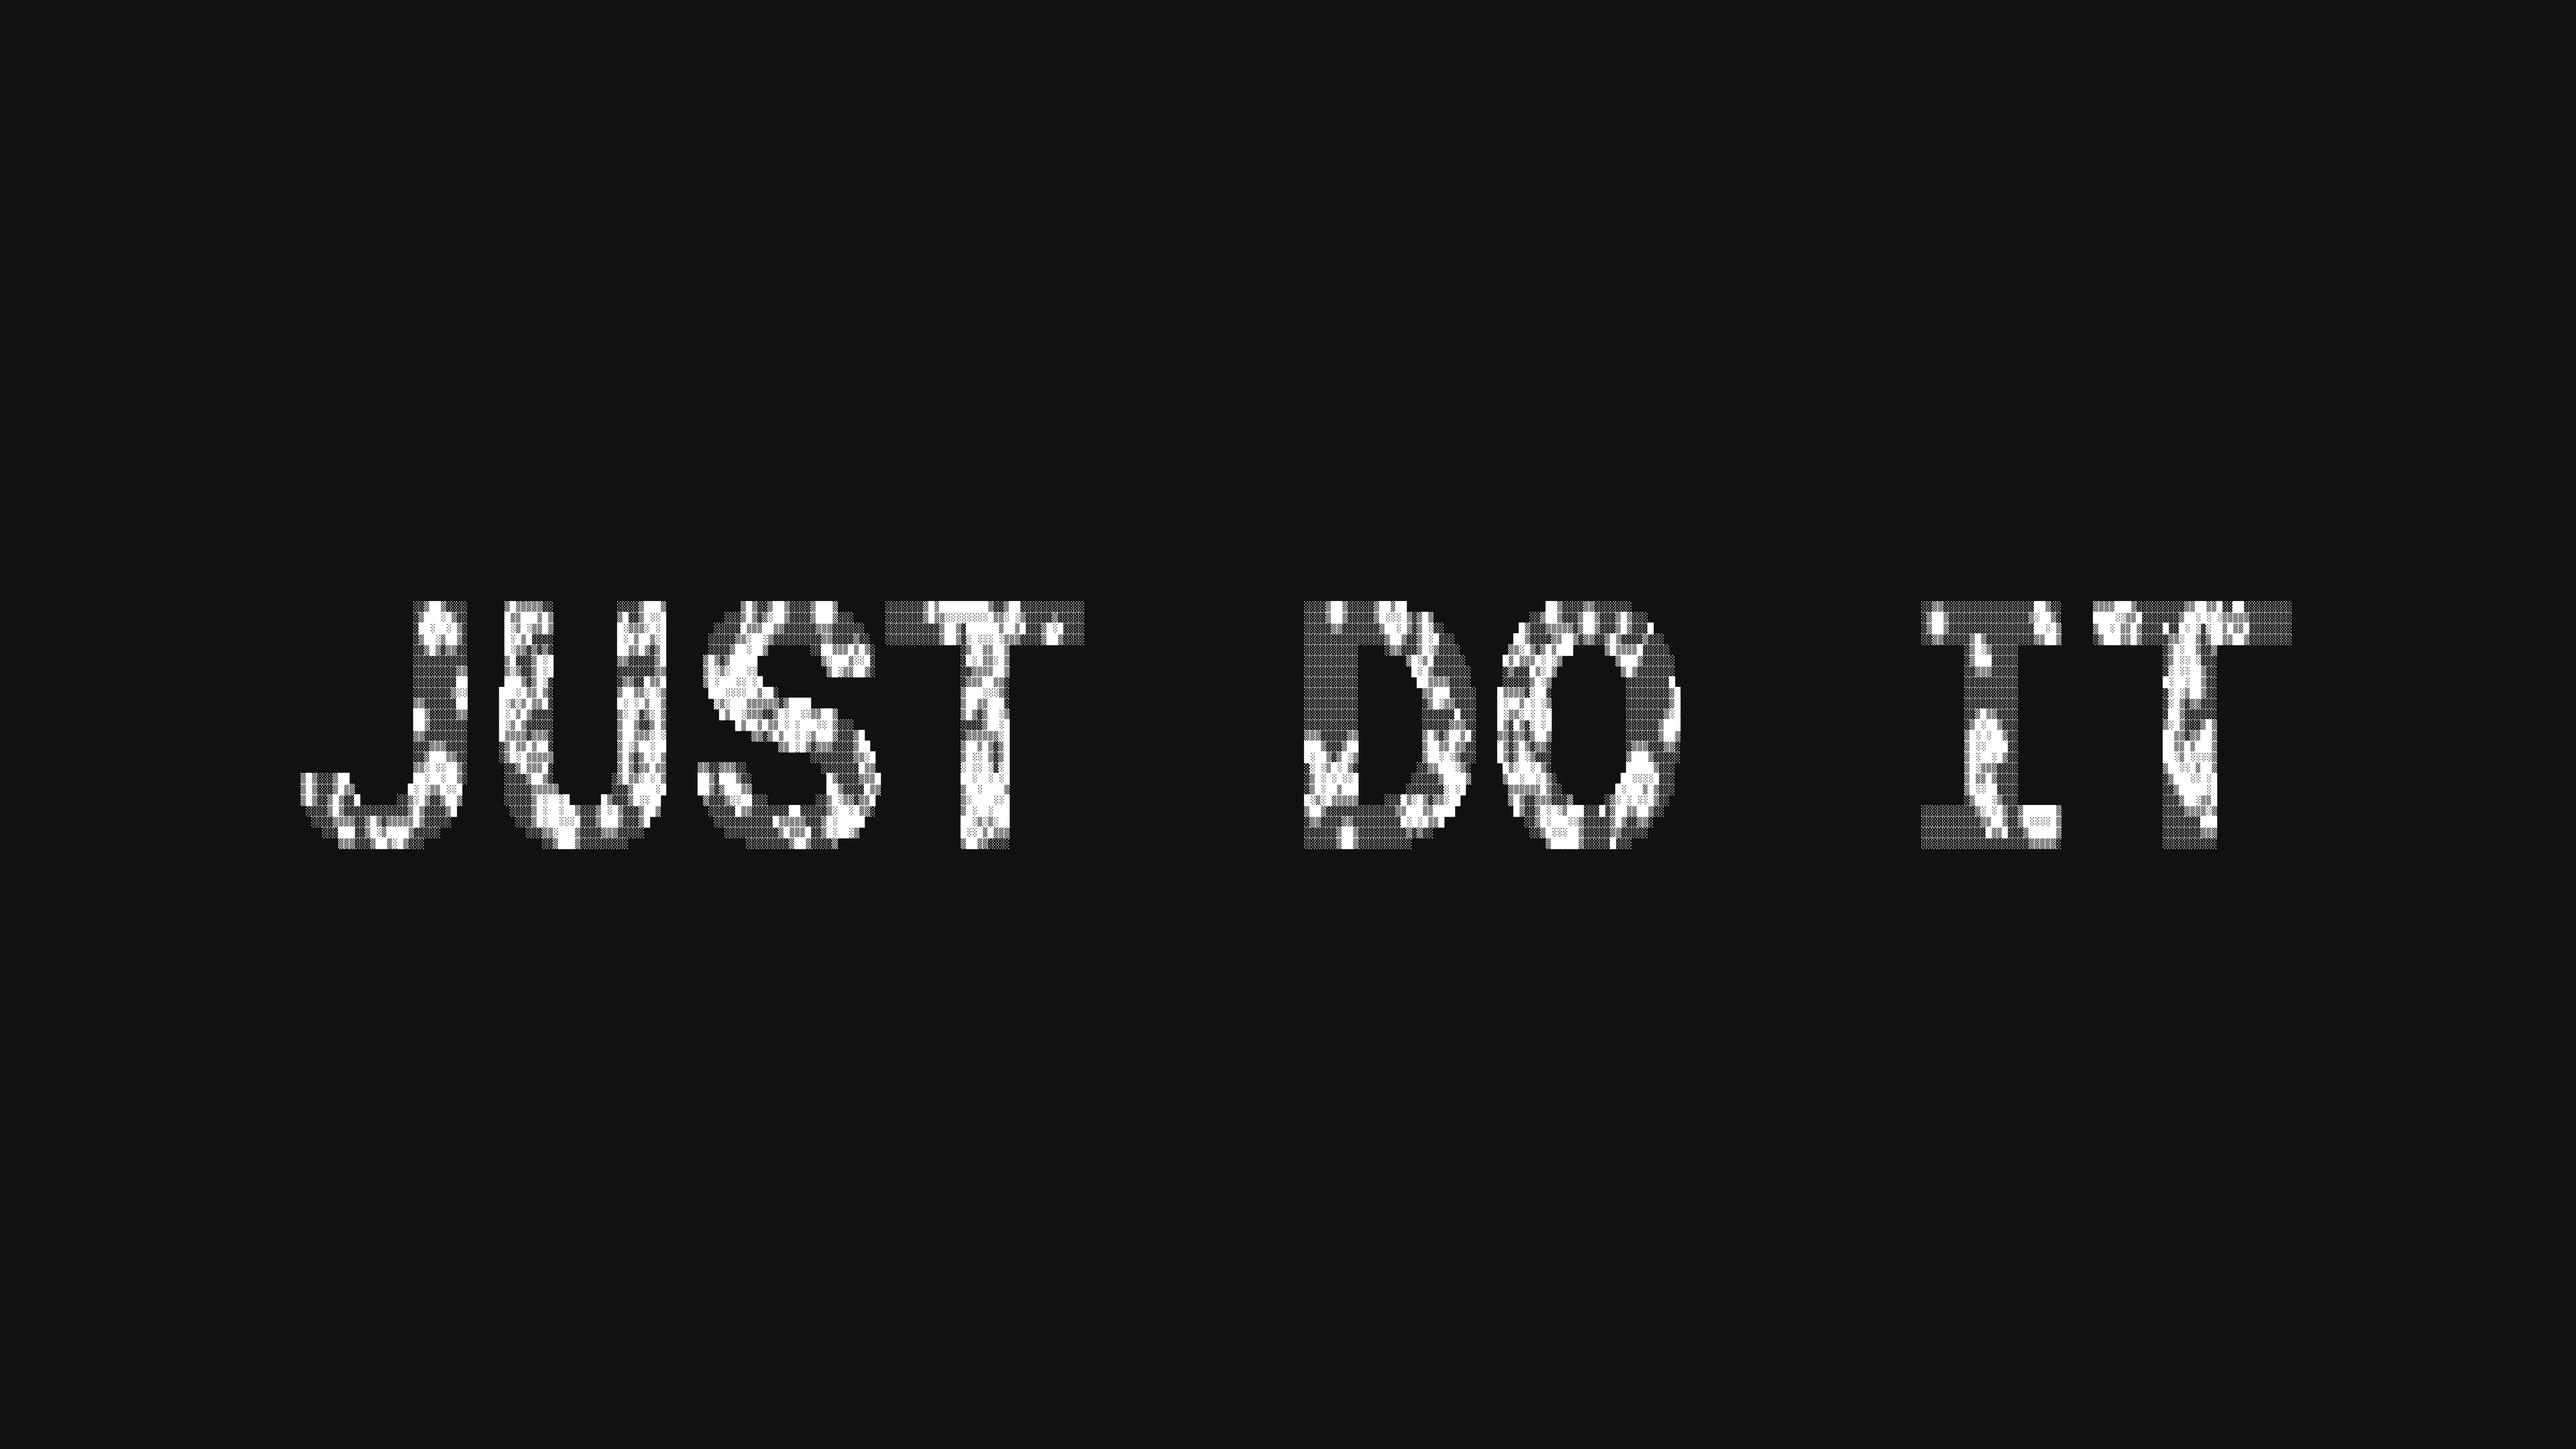
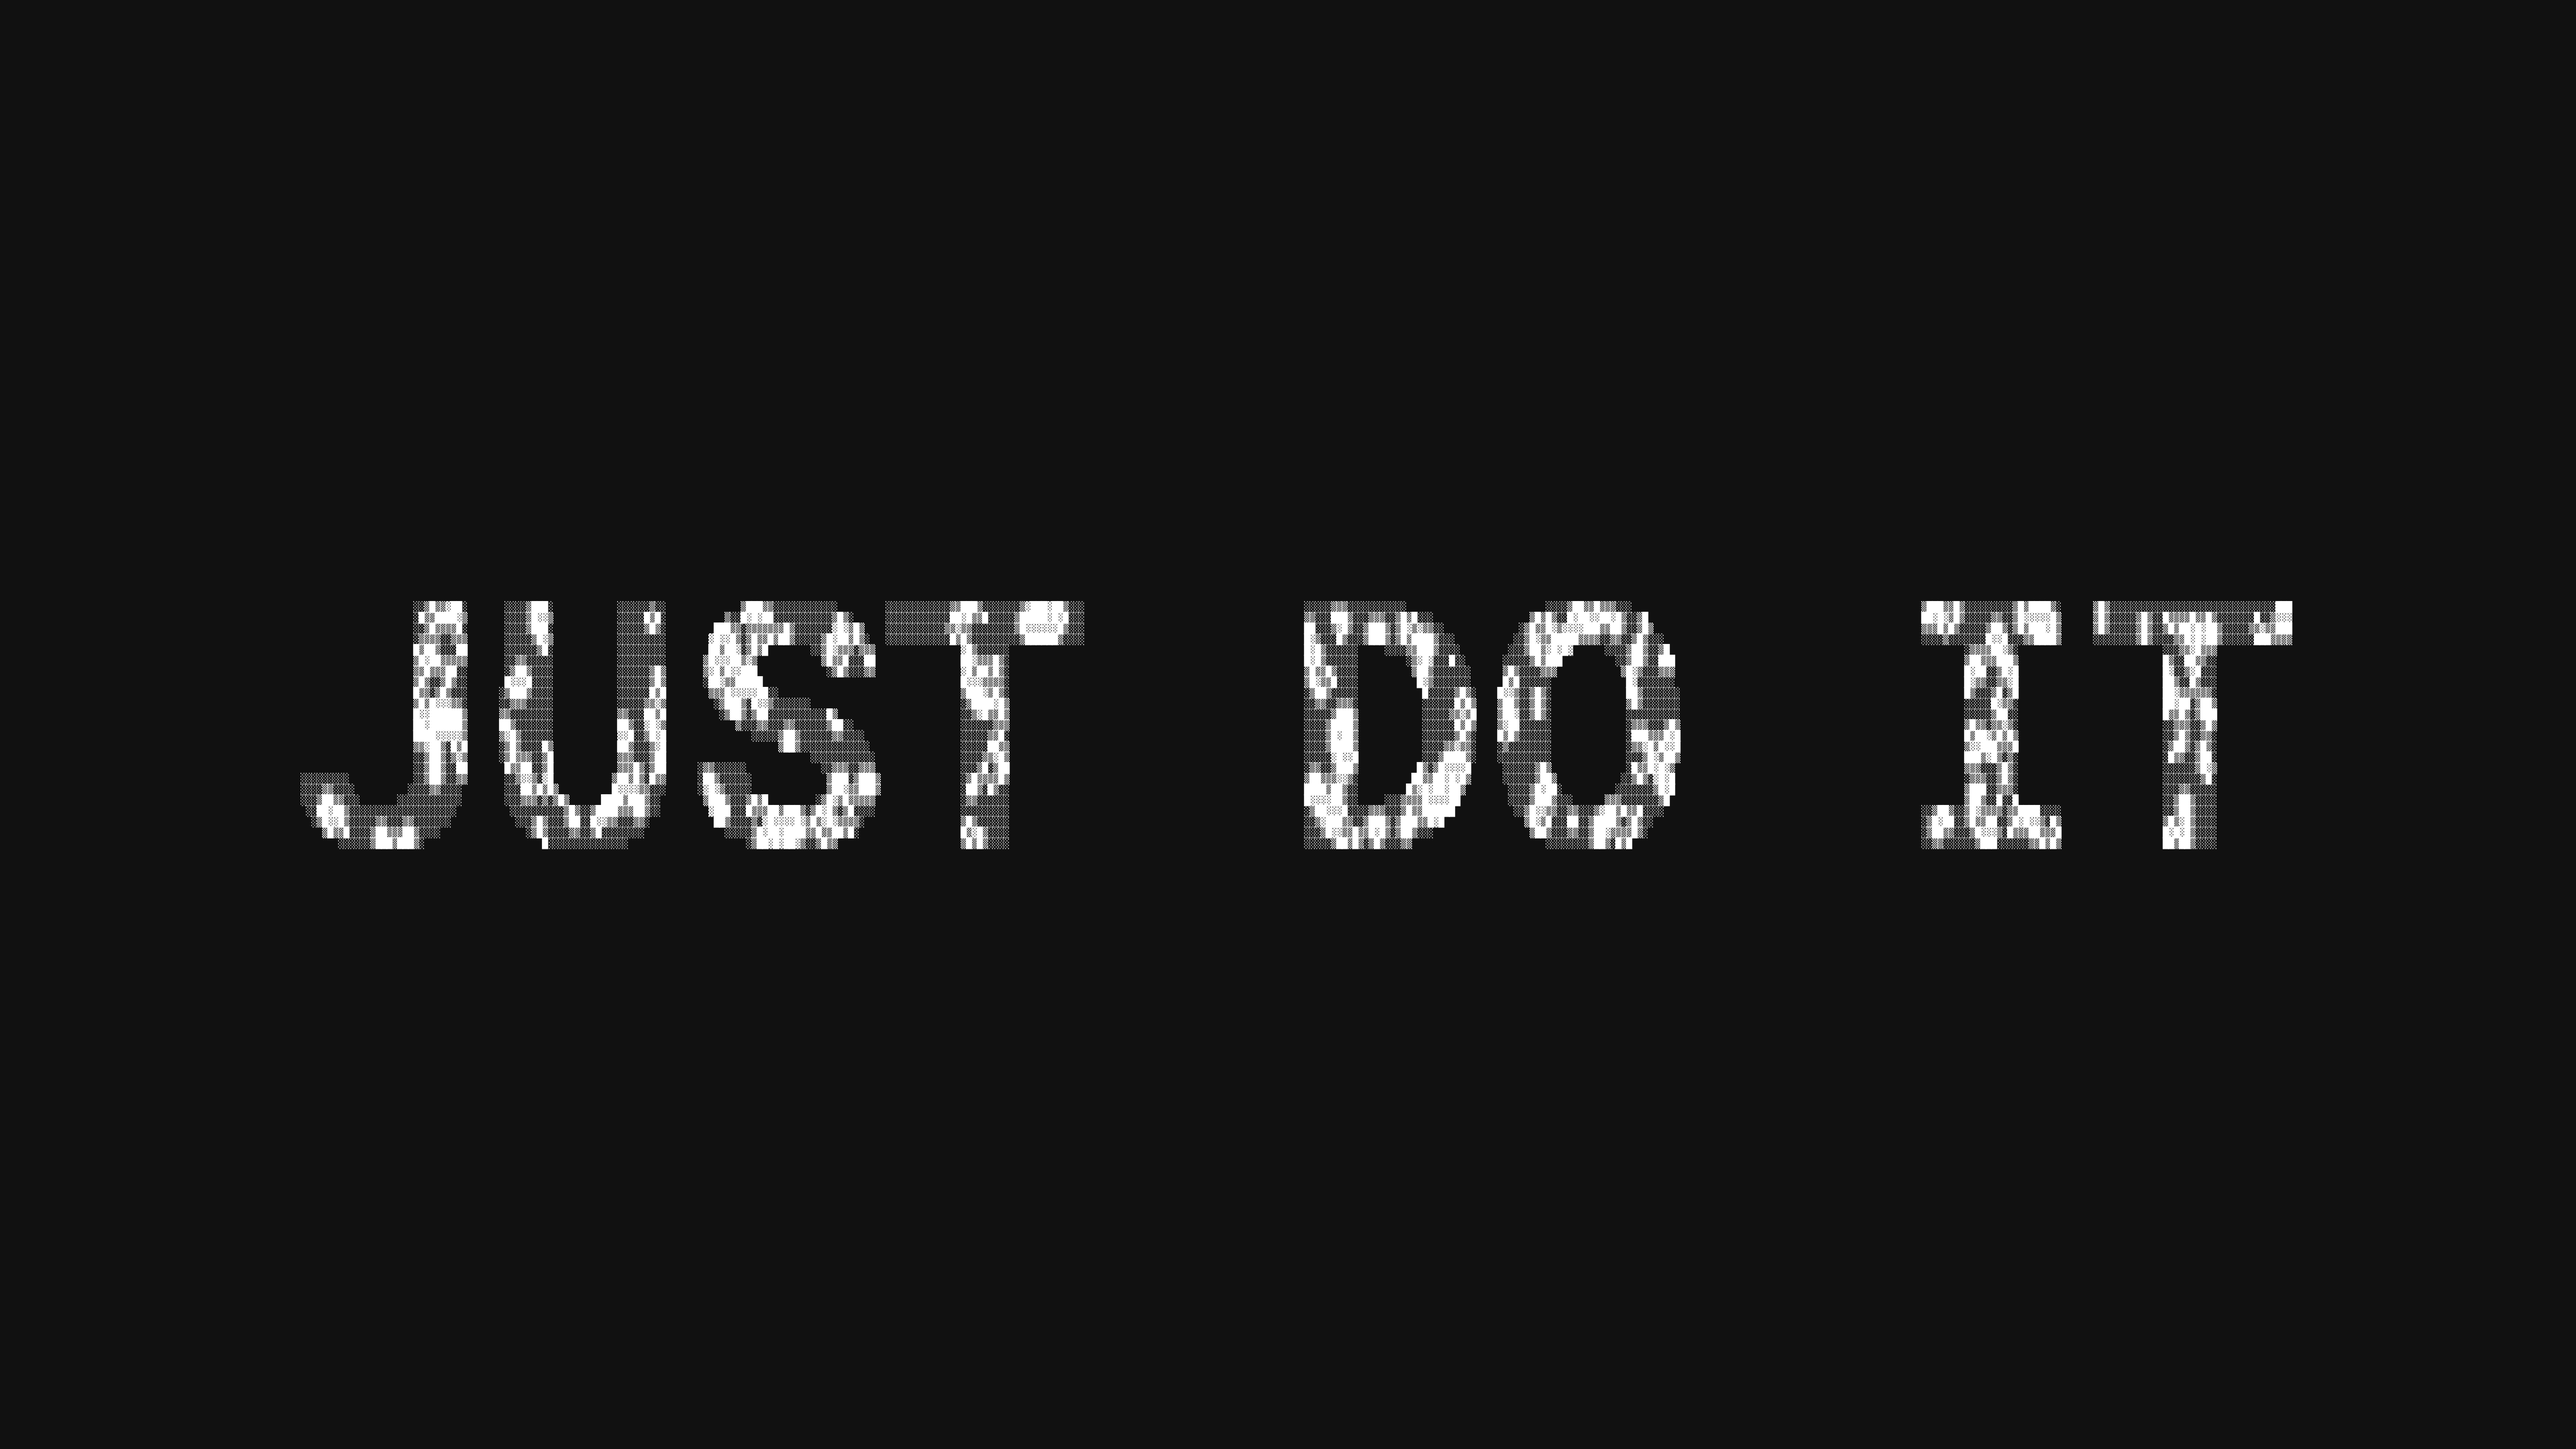
fix: SDF gallery — 2 clean variants, neon restricted to ink cells only
Removed sdf-outline (gamma=1.8 was duplicated) and sdf-mid (gamma=3.0
white blob with jagged hex edges). Kept:
  S-G09-sdf:      gamma=1.8 — best balance of glow + readability
  S-G09-sdf-neon: gamma=1.8 + cyan->magenta gradient, ink cells only

Neon fix: _ink_mask_neon set restricts color_fn to actual ink cells —
exterior SDF falloff cells keep dim white, preventing canvas-filling
gradient soup at web scale.

Changed region(s): [[0.0938, 0.4032, 0.4375, 0.5894], [0.5, 0.4032, 0.6562, 0.5894], [0.75, 0.4032, 0.9062, 0.5894]]

diff --git a/scripts/generate_gallery.py b/scripts/generate_gallery.py
@@ -957,17 +957,15 @@ def _curated_entries_g09(
     add("S-G09-noise-radial", "G09+F02 — Noise + radial", noise_grid)
 
     # Strategy C — char fills on G09 mask (full resolution)
-    # SDF variants use gamma curves (not threshold) — produces smooth density
-    # gradient that reads well at any scale (incl. web thumbnail).
-    # gamma=1.0: linear, classic diffuse glow (best at web scale)
-    # gamma=1.8: slightly biased toward interior, still visible gradient
-    # gamma=3.0: bold interior with thin visible edge ring at 4K
+    # SDF note: sdf_fill produces chars for BOTH ink cells AND exterior-glow cells
+    # (cells near the letter boundary get non-zero SDF values). This creates the
+    # natural glow halo visible in web thumbnails. gamma controls glow width:
+    # gamma=1.0: wide glow (too diffuse at web scale, nearly invisible)
+    # gamma=1.8: balanced glow + readable text — the sweet spot
     _strategy_c = [
-        ("S-G09-density",     "G09+F01 — Density (hi-res)",        "density", {}),
-        ("S-G09-sdf",         "G09+F06 — SDF glow (linear)",       "sdf",     {"gamma": 1.0}),
-        ("S-G09-sdf-outline", "G09+F06 — SDF bold (gamma 1.8)",   "sdf",     {"gamma": 1.8}),
-        ("S-G09-sdf-mid",     "G09+F06 — SDF intense (gamma 3.0)","sdf",     {"gamma": 3.0}),
-        ("S-G09-shape",       "G09+F07 — Shape (hi-res)",          "shape",   {}),
+        ("S-G09-density",     "G09+F01 — Density (hi-res)",    "density", {}),
+        ("S-G09-sdf",         "G09+F06 — SDF glow (gamma 1.8)", "sdf",   {"gamma": 1.8}),
+        ("S-G09-shape",       "G09+F07 — Shape (hi-res)",      "shape",   {}),
     ]
     for stem, label, fill_name, fkw in _strategy_c:
         print(f"    G09 Strategy C: {stem.split('-')[-1]} ...")
@@ -981,15 +979,28 @@ def _curated_entries_g09(
                                  color_fn=lambda g: _apply_gradient_color(g, grid_cols, grid_rows,
                                                                           "horizontal", FIRE_PALETTE)))
     print("    G09 Strategy C: sdf-neon ...")
-    # SDF neon: gamma=1.0 diffuse glow + diagonal cyan→magenta gradient.
-    # Chars vary by SDF density (light edge, dense interior);
-    # color varies by position — the density gradient reads as a colored glow.
-    add("S-G09-sdf-neon", "G09+F06 — SDF + neon",
-        _apply_char_fill_to_grid(base_grid, "sdf",
-                                 fill_kwargs={"gamma": 1.0},
-                                 color_fn=lambda g: _apply_gradient_color(g, grid_cols, grid_rows,
-                                                                          "diagonal",
-                                                                          [(0, 255, 200), (255, 80, 255)])))
+    # SDF neon: gamma=1.8 glow + diagonal cyan→magenta gradient on INK CELLS ONLY.
+    # We mask the color_fn result back to ink cells to avoid painting the exterior
+    # SDF falloff zone (which produces the canvas-filling gradient soup).
+    _sdf_neon_base = _apply_char_fill_to_grid(base_grid, "sdf", fill_kwargs={"gamma": 1.8})
+    _ink_mask_neon = {(r, c) for r, row in enumerate(base_grid) for c, (ch, _) in enumerate(row) if ch != " "}
+    _neon_pal = [(0, 255, 200), (255, 80, 255)]
+    _sdf_neon_colored = []
+    for _r, _row in enumerate(_sdf_neon_base):
+        _new_row = []
+        for _c, (_ch, _rgb) in enumerate(_row):
+            if _ch == " " or (_r, _c) not in _ink_mask_neon:
+                # Non-ink or exterior SDF glow: keep as-is (space or dim glow char)
+                _new_row.append((_ch, _rgb))
+            else:
+                # Ink cell: apply neon gradient color
+                _t = (_c / max(grid_cols - 1, 1) * 0.6 + _r / max(grid_rows - 1, 1) * 0.4)
+                _t = max(0.0, min(1.0, _t))
+                _r0, _g0, _b0 = _neon_pal[0]; _r1, _g1, _b1 = _neon_pal[1]
+                _neon_rgb = (int(_r0+(_r1-_r0)*_t), int(_g0+(_g1-_g0)*_t), int(_b0+(_b1-_b0)*_t))
+                _new_row.append((_ch, _neon_rgb))
+        _sdf_neon_colored.append(_new_row)
+    add("S-G09-sdf-neon", "G09+F06 — SDF + neon", _sdf_neon_colored)
     print("    G09 Strategy C: shape-ocean ...")
     add("S-G09-shape-ocean", "G09+F07 — Shape + ocean",
         _apply_char_fill_to_grid(base_grid, "shape",

diff --git a/docs/gallery-4k/README.md b/docs/gallery-4k/README.md
@@ -77,11 +77,7 @@
 <td align="center"><img src="S-G09-plasma.png" width="780"><br><sub><b>G09 — Plasma</b></sub></td>
 </tr>
 <tr>
-<td align="center"><img src="S-G09-sdf-mid.png" width="780"><br><sub><b>G09 — Sdf Mid</b></sub></td>
 <td align="center"><img src="S-G09-sdf-neon.png" width="780"><br><sub><b>G09 — Sdf Neon</b></sub></td>
-</tr>
-<tr>
-<td align="center"><img src="S-G09-sdf-outline.png" width="780"><br><sub><b>G09 — Sdf Outline</b></sub></td>
 <td align="center"><img src="S-G09-sdf.png" width="780"><br><sub><b>G09 — Sdf</b></sub></td>
 </tr>
 <tr>
